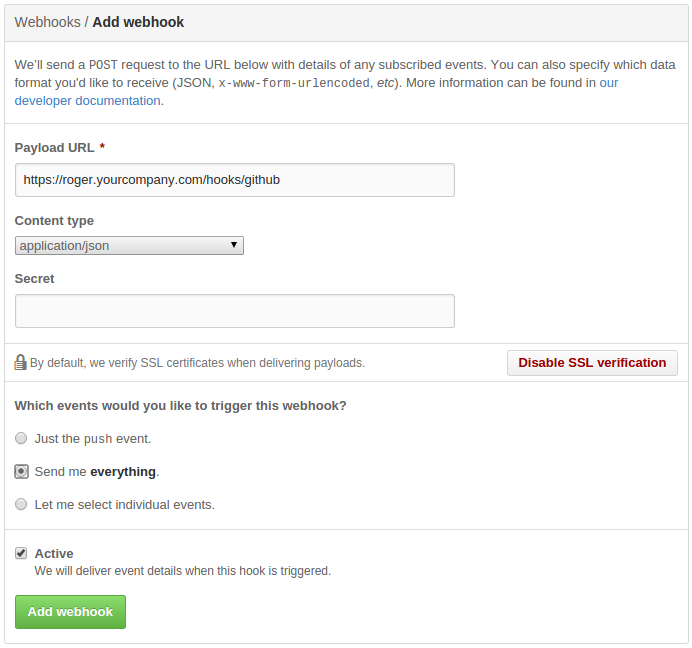
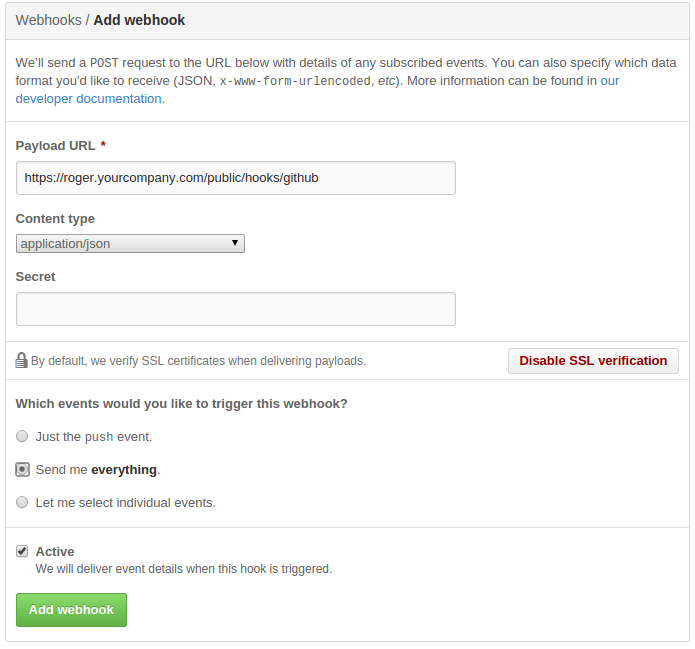
changed the hooks URL to start with /public

diff --git a/src/routes.js b/src/routes.js
@@ -234,7 +234,7 @@ routes.bind = function(app) {
   app.get('/api/projects/:project/build', routes.build);
   app.post('/api/projects/:project/build', routes.build);
   app.get('/api/builds/:build', routes.buildStatus);
-  app.post('/hooks/github', routes.buildFromGithubHook);
+  app.post('/public/hooks/github', routes.buildFromGithubHook);
   
   app.use(notFoundMiddleware);
   app.use(obfuscateMiddleware);
